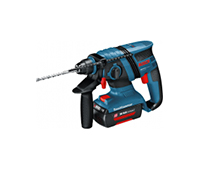
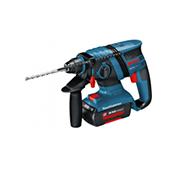
Отредактировала изображения в карточках товара

Changed region(s): [[0.1316, 0.2059, 0.8158, 0.7647]]

diff --git a/index.html b/index.html
@@ -180,7 +180,7 @@
               </div>
             </li>
             <li class="products-item">
-              <img src="img/perforator-2.jpg" alt="Перфоратор BOSCH BFG 2000">
+              <img src="img/perforator-4.jpg" alt="Перфоратор BOSCH BFG 2000">
               <h4>Перфоратор BOSCH BFG 2000</h4>
               <span class="products-item-price price-sale">&nbsp;</span>
               <div class="products-item-price-wrapper">

diff --git a/css/style.css b/css/style.css
@@ -695,7 +695,7 @@ input:focus:-ms-input-placeholder      {color:#000000;}
 }
 
 .products-item img {
-  width: 200px;
+  width: 190px;
 }
 
 .price-sale {
@@ -816,9 +816,9 @@ input:focus:-ms-input-placeholder      {color:#000000;}
   border: 1px solid #eaeaea;
   background-color: #ffffff;
   text-align: center;
-  width: 214px;
-  height: 143px;
-  margin-bottom: 23px;
+  width: 220px;
+  height: 145px;
+  margin-bottom: 19px;
   box-sizing: border-box;
 }
 
